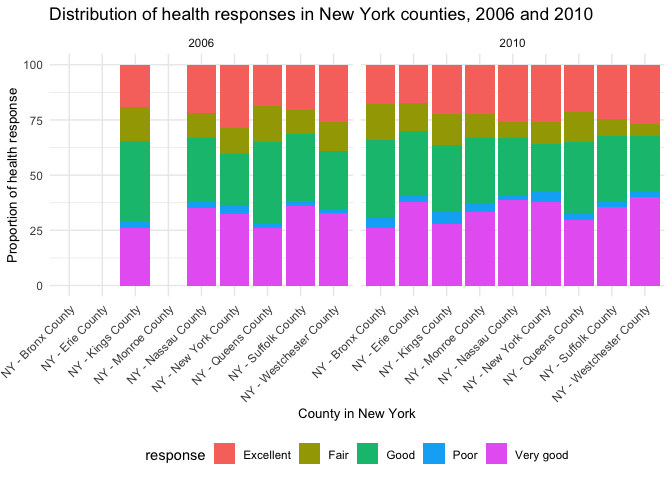
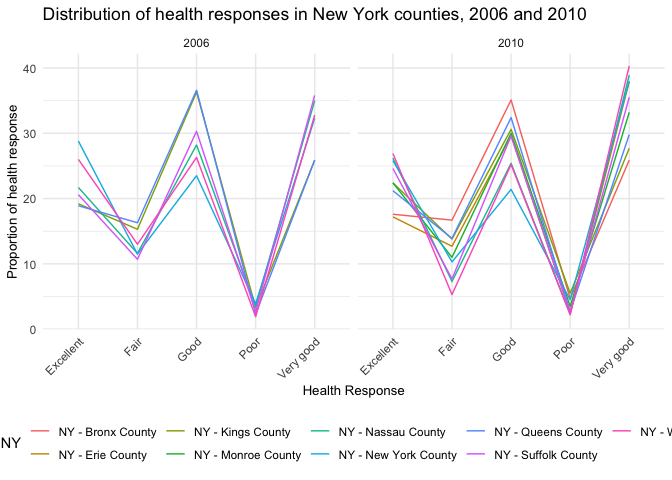
updated the code to create a line plot for NY state in Problem 3; added initial code to load and clean the accel_data file

diff --git a/p8105_hw3_lk2761.md b/p8105_hw3_lk2761.md
@@ -237,17 +237,25 @@ ny_state_data =
 
 # This code creates a two-panel plot showing the distribution of data values for the responses for NY state in 2006 and 2010.
 
-ggplot(ny_state_data, aes(x = state_county, y = data_value, fill = response)) + 
-  geom_col() +
+ggplot(ny_state_data, aes(group = state_county, x = response, y = data_value, color = state_county)) + 
+  geom_line() +
   facet_grid(~year) +
   theme_minimal() +
   theme(axis.title = element_text(size = 10),
     axis.text.x = element_text(angle = 45, hjust = 1)) +
   labs(title = "Distribution of health responses in New York counties, 2006 and 2010", 
-       x = "County in New York",
+       x = "Health Response",
        y = "Proportion of health response") +
-  scale_color_hue(name = "Health response") +
+  scale_color_hue(name = "County in NY") +
     theme(legend.position = "bottom") 
 ```
 
 ![](p8105_hw3_lk2761_files/figure-gfm/unnamed-chunk-2-1.png)<!-- -->
+
+## Problem 3
+
+``` r
+accel_data = 
+  read.csv("./data/accel_data.csv") %>%
+  rename(.data = ., num_of_day = day_id) 
+```
